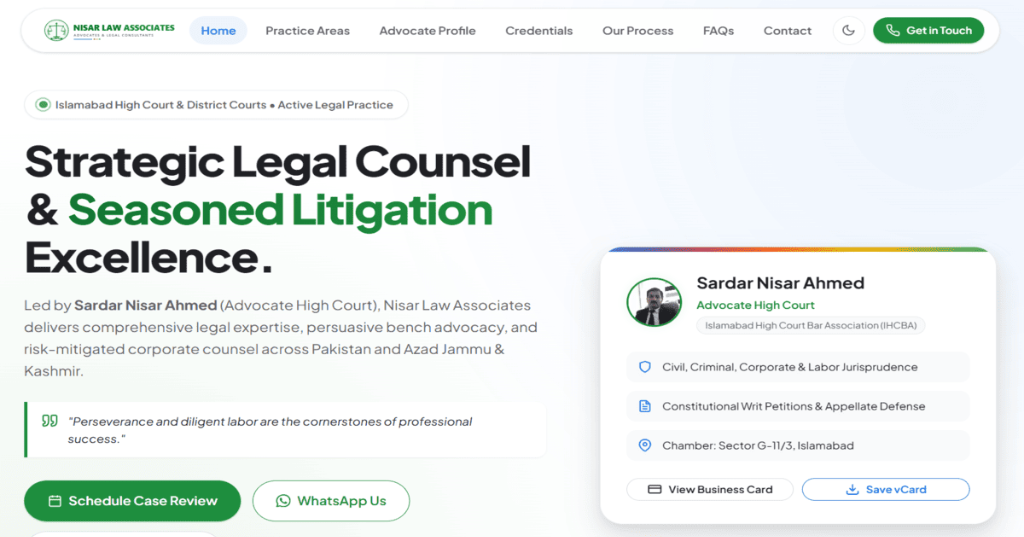
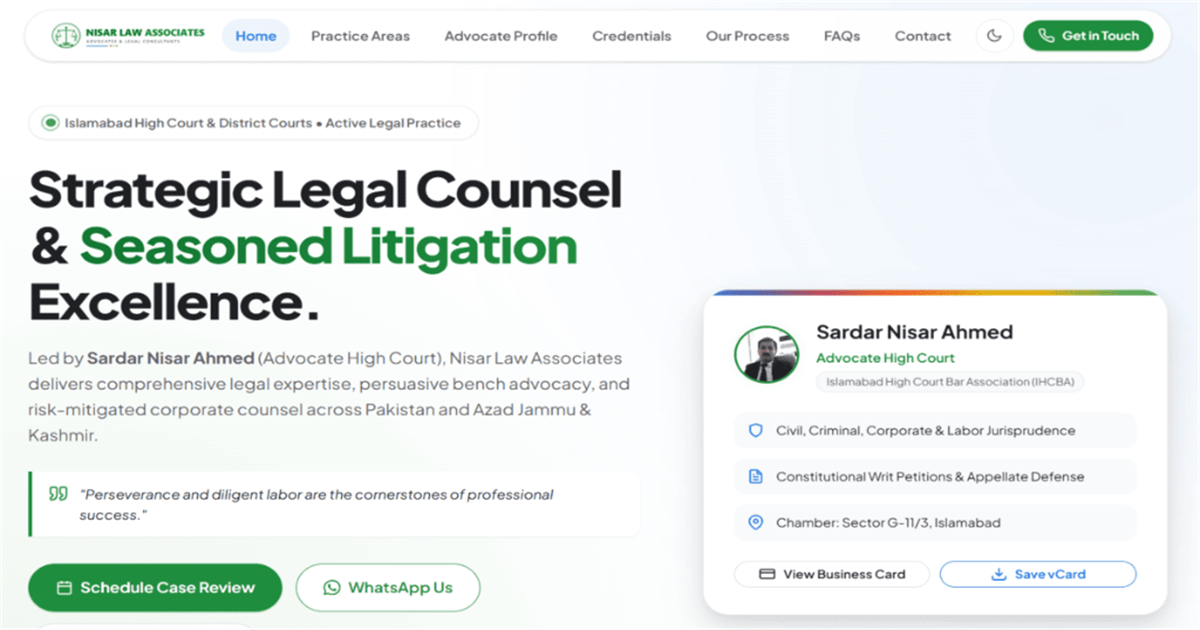
OGP

diff --git a/index.html b/index.html
@@ -1,5 +1,5 @@
 <!DOCTYPE html>
-<html lang="en" data-theme="light">
+<html lang="en" data-theme="light" prefix="og: https://ogp.me/ns#">
 <head>
   <meta charset="UTF-8">
   <meta name="viewport" content="width=device-width, initial-scale=1.0">
@@ -8,28 +8,33 @@
   <meta name="keywords" content="Nisar Law Associates, Sardar Nisar Ahmed, Advocate High Court, Islamabad High Court, Legal Consultants Islamabad, Civil Law, Criminal Defense, Bail Petitions, Corporate Law, Property Disputes, G-11 Islamabad Lawyer">
   <meta name="author" content="Sardar Nisar Ahmed Advocate High Court">
 
-  <!-- Open Graph / Facebook / WhatsApp Meta Tags -->
+  <!-- Schema.org Microdata (WhatsApp / Google Crawler fallback) -->
+  <meta itemprop="name" content="Nisar Law Associates | Advocates & Legal Consultants">
+  <meta itemprop="description" content="Strategic Legal Counsel & Seasoned Litigation Excellence. Led by Sardar Nisar Ahmed, Advocate High Court (IHCBA). Chamber: Sector G-11/3, Islamabad.">
+  <meta itemprop="image" content="https://ahmedraja1.github.io/Nisar-Law-Associates/assets/images/og-image.jpg">
+
+  <!-- Open Graph / Facebook / WhatsApp Meta Tags (Absolute HTTPS, 1200x630, <100KB JPEG) -->
   <meta property="og:type" content="website">
   <meta property="og:site_name" content="Nisar Law Associates">
-  <meta property="og:url" content="https://nisarlawassociates.com/">
+  <meta property="og:url" content="https://ahmedraja1.github.io/Nisar-Law-Associates/">
   <meta property="og:title" content="Nisar Law Associates | Advocates & Legal Consultants">
   <meta property="og:description" content="Strategic Legal Counsel & Seasoned Litigation Excellence. Led by Sardar Nisar Ahmed, Advocate High Court (IHCBA). Chamber: Sector G-11/3, Islamabad.">
-  <meta property="og:image" content="assets/images/og-image.png">
-  <meta property="og:image:secure_url" content="assets/images/og-image.png">
-  <meta property="og:image:type" content="image/png">
-  <meta property="og:image:width" content="1024">
-  <meta property="og:image:height" content="537">
+  <meta property="og:image" content="https://ahmedraja1.github.io/Nisar-Law-Associates/assets/images/og-image.jpg">
+  <meta property="og:image:secure_url" content="https://ahmedraja1.github.io/Nisar-Law-Associates/assets/images/og-image.jpg">
+  <meta property="og:image:type" content="image/jpeg">
+  <meta property="og:image:width" content="1200">
+  <meta property="og:image:height" content="630">
   <meta property="og:image:alt" content="Nisar Law Associates - Sardar Nisar Ahmed Advocate High Court">
+
+  <!-- Fallback / Legacy Link Previews -->
+  <link rel="image_src" href="https://ahmedraja1.github.io/Nisar-Law-Associates/assets/images/og-image.jpg">
 
   <!-- Twitter Card Tags -->
   <meta name="twitter:card" content="summary_large_image">
-  <meta name="twitter:url" content="https://nisarlawassociates.com/">
+  <meta name="twitter:url" content="https://ahmedraja1.github.io/Nisar-Law-Associates/">
   <meta name="twitter:title" content="Nisar Law Associates | Advocates & Legal Consultants">
   <meta name="twitter:description" content="Strategic Legal Counsel & Seasoned Litigation Excellence. High Court & District Courts litigation, constitutional writs, civil & corporate advisory.">
-  <meta name="twitter:image" content="assets/images/og-image.png">
-
-  <!-- WhatsApp / Social Share Fallback Image Link -->
-  <link rel="image_src" href="assets/images/og-image.png">
+  <meta name="twitter:image" content="https://ahmedraja1.github.io/Nisar-Law-Associates/assets/images/og-image.jpg">
 
   <!-- Favicon -->
   <link rel="icon" type="image/svg+xml" href="assets/favicon.svg">
